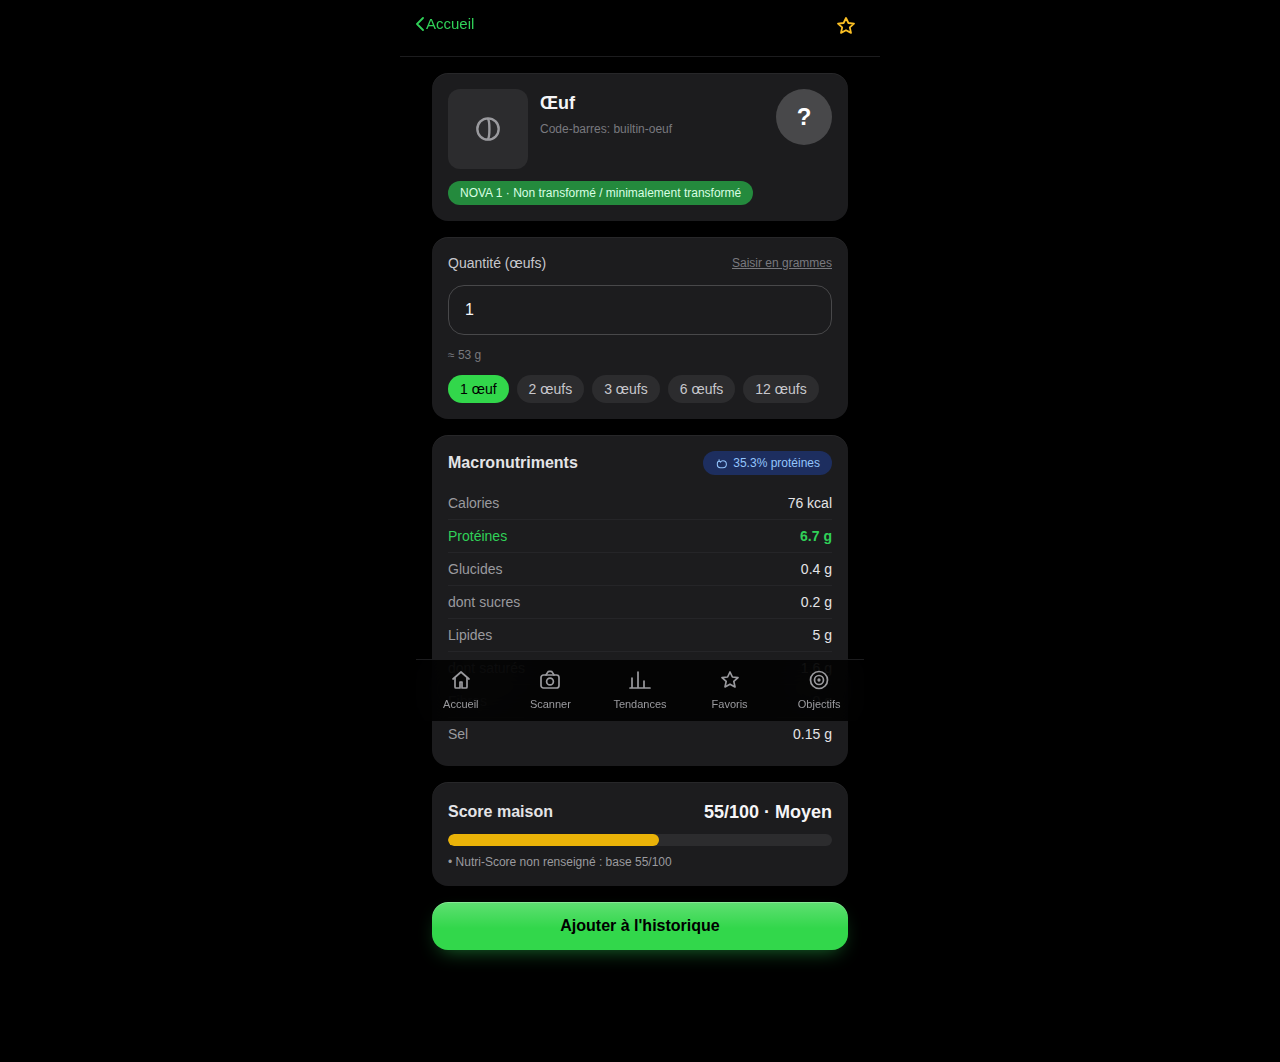
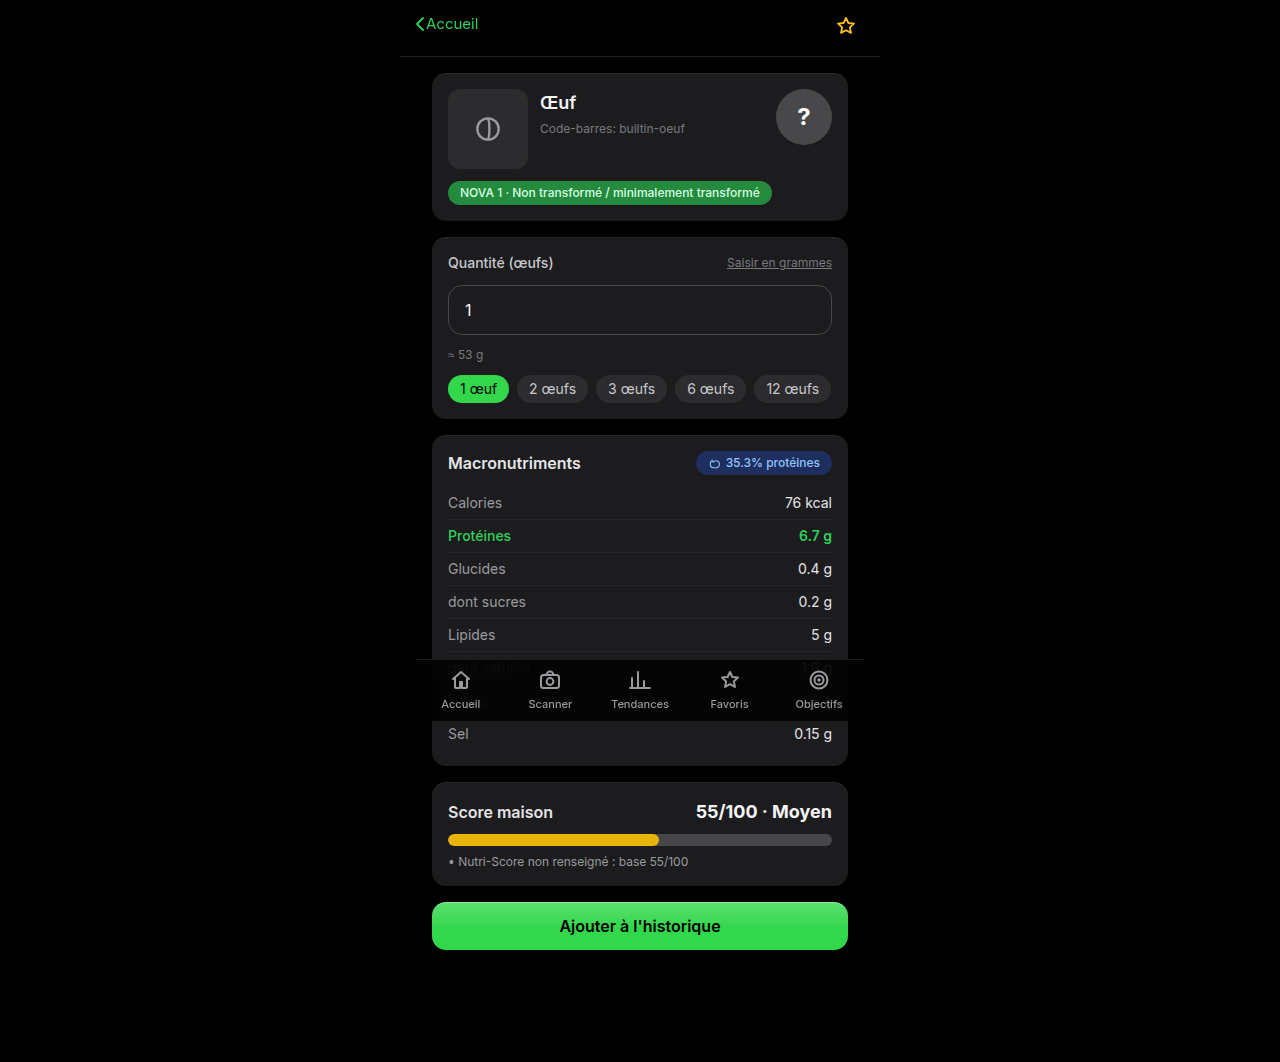
Apply the iOS design-system brief: type scale, corner radii, spring easing, haptics, pull-to-refresh (#30)
- Insert self-hosted Inter Variable as a fallback after -apple-system, so
  non-Apple platforms get an SF-Pro-adjacent font instead of a generic one
- Drop the neon-green glow on the primary button for a flat iOS-style
  shadow (radius 8-10, opacity 0.15); lighten the empty progress-bar track
  for visibility on black; bump section labels to Footnote weight/size and
  the large title to true iOS Large Title (34pt)
- Tighten card/list-group/quick-tile corner radii to the 14pt iOS range
- Normalize bottom-nav icon stroke width so active/inactive icons read at
  the same visual weight, differentiated by color only
- Replace linear/ease transitions on buttons, pills, tiles and icon
  buttons with a spring-style easing curve and a 0.96 press scale
- Add a Vibration-API haptics helper (Android-only, no-ops on iOS/desktop)
  wired into add-to-history and favorite-toggle actions
- Add native-feeling pull-to-refresh on the home page

diff --git a/src/app/globals.css b/src/app/globals.css
@@ -11,8 +11,15 @@
 body {
   color: var(--foreground);
   background: var(--background);
-  font-family: -apple-system, BlinkMacSystemFont, "SF Pro Text", "SF Pro Display", "Segoe UI", Roboto,
-    Helvetica, Arial, sans-serif;
+  font-family: -apple-system, BlinkMacSystemFont, "SF Pro Text", "SF Pro Display", "Inter Variable",
+    "Segoe UI", Roboto, Helvetica, Arial, sans-serif;
+}
+
+/* iOS spring-style easing for press states and transitions, in place of
+   linear/ease-out - a slight overshoot is what makes a tap feel alive
+   rather than merely animated. */
+:root {
+  --ease-spring: cubic-bezier(0.34, 1.56, 0.64, 1);
 }
 
 @layer components {
@@ -20,7 +27,7 @@ body {
      highlight along the top edge, the way light would actually catch a
      raised card - a flat tint alone read as pasted-on rather than raised. */
   .card {
-    @apply rounded-2xl bg-slate-800 p-4;
+    @apply rounded-[14px] bg-slate-800 p-4;
     box-shadow:
       inset 0 1px 0 rgba(255, 255, 255, 0.05),
       0 2px 6px -2px rgba(0, 0, 0, 0.55),
@@ -29,32 +36,33 @@ body {
 
   /* systemGreen is high-luminance (green channel dominates perceived
      brightness), so black text clears contrast by a wide margin where
-     white would not - same call iOS makes on tinted-green fills. A faint
-     top-lit gradient plus a matching cast shadow give it a pressable,
-     raised-button feel instead of a flat color swatch. */
+     white would not - same call iOS makes on tinted-green fills. iOS
+     buttons stay flat with just a subtle cast shadow, not a tinted glow. */
   .btn-primary {
-    @apply inline-flex items-center justify-center gap-2 rounded-2xl bg-green-600 px-4 py-3 font-semibold text-black transition active:scale-95 hover:bg-green-500 disabled:opacity-50 disabled:active:scale-100;
+    @apply inline-flex items-center justify-center gap-2 rounded-[14px] bg-green-600 px-4 py-3 font-semibold text-black transition-transform duration-200 active:scale-[0.96] hover:bg-green-500 disabled:opacity-50 disabled:active:scale-100;
+    transition-timing-function: var(--ease-spring);
     background-image: linear-gradient(180deg, rgba(255, 255, 255, 0.22), rgba(255, 255, 255, 0) 55%);
     box-shadow:
       inset 0 1px 0 rgba(255, 255, 255, 0.25),
-      0 8px 20px -8px rgba(48, 209, 88, 0.55);
+      0 8px 10px -2px rgba(0, 0, 0, 0.15);
   }
   .btn-primary:active {
     box-shadow:
       inset 0 1px 0 rgba(255, 255, 255, 0.2),
-      0 3px 10px -6px rgba(48, 209, 88, 0.5);
+      0 3px 6px -2px rgba(0, 0, 0, 0.15);
   }
 
   .btn-secondary {
-    @apply inline-flex items-center justify-center gap-2 rounded-2xl bg-slate-700 px-4 py-3 font-semibold text-slate-100 transition active:scale-95 hover:bg-slate-600 disabled:opacity-50;
+    @apply inline-flex items-center justify-center gap-2 rounded-[14px] bg-slate-700 px-4 py-3 font-semibold text-slate-100 transition-transform duration-200 active:scale-[0.96] hover:bg-slate-600 disabled:opacity-50;
+    transition-timing-function: var(--ease-spring);
   }
 
   .input-field {
-    @apply w-full rounded-2xl border border-slate-600 bg-slate-800 px-4 py-3 text-slate-100 placeholder-slate-500 outline-none focus:border-green-500;
+    @apply w-full rounded-[14px] border border-slate-600 bg-slate-800 px-4 py-3 text-slate-100 placeholder-slate-500 outline-none focus:border-green-500;
   }
 
   .progress-track {
-    @apply h-3 w-full overflow-hidden rounded-full bg-slate-700;
+    @apply h-3 w-full overflow-hidden rounded-full bg-slate-600;
   }
 
   .progress-fill {
@@ -82,18 +90,18 @@ body {
   }
 
   .large-title {
-    @apply text-[28px] font-bold tracking-tight text-slate-100;
+    @apply text-[34px] font-bold tracking-tight text-slate-100;
   }
 
   /* No top margin: pages control inter-section rhythm via space-y-* on the
      wrapping container, so this never has to guess whether it's first. */
   .section-label {
-    @apply mb-2 px-1 text-[12px] font-semibold uppercase tracking-wide text-slate-500;
+    @apply mb-2 px-1 text-[13px] font-bold uppercase tracking-wide text-slate-400;
   }
 
   /* Grouped iOS list: rows are direct children, separated by hairlines. */
   .list-group {
-    @apply divide-y divide-white/[0.06] overflow-hidden rounded-2xl bg-slate-800;
+    @apply divide-y divide-white/[0.06] overflow-hidden rounded-[14px] bg-slate-800;
     box-shadow:
       inset 0 1px 0 rgba(255, 255, 255, 0.05),
       0 2px 6px -2px rgba(0, 0, 0, 0.55),
@@ -133,7 +141,8 @@ body {
   }
 
   .pill {
-    @apply rounded-full px-3 py-1.5 text-sm font-medium transition active:scale-95;
+    @apply rounded-full px-3 py-1.5 text-sm font-medium transition-transform duration-200 active:scale-[0.96];
+    transition-timing-function: var(--ease-spring);
   }
 
   .pill-active {
@@ -157,11 +166,13 @@ body {
   }
 
   .icon-btn {
-    @apply inline-flex h-9 w-9 items-center justify-center rounded-full text-slate-400 transition active:scale-90 hover:text-slate-200;
+    @apply inline-flex h-9 w-9 items-center justify-center rounded-full text-slate-400 transition-transform duration-200 active:scale-90 hover:text-slate-200;
+    transition-timing-function: var(--ease-spring);
   }
 
   .quick-tile {
-    @apply flex flex-col items-center gap-2 rounded-2xl bg-slate-800 px-2 py-3.5 text-center transition active:scale-95;
+    @apply flex flex-col items-center gap-2 rounded-[14px] bg-slate-800 px-2 py-3.5 text-center transition-transform duration-200 active:scale-[0.96];
+    transition-timing-function: var(--ease-spring);
     box-shadow:
       inset 0 1px 0 rgba(255, 255, 255, 0.05),
       0 2px 6px -2px rgba(0, 0, 0, 0.55),

diff --git a/src/components/PullToRefresh.tsx b/src/components/PullToRefresh.tsx
@@ -1,0 +1,73 @@
+"use client";
+
+import { useRef, useState, type ReactNode, type TouchEvent } from "react";
+import { hapticTap } from "@/lib/haptics";
+
+const TRIGGER_DISTANCE = 64;
+const MAX_PULL = 100;
+
+interface PullToRefreshProps {
+  onRefresh: () => Promise<void>;
+  children: ReactNode;
+}
+
+/** Native-feeling pull-to-refresh: only arms when the page is scrolled to the top. */
+export default function PullToRefresh({ onRefresh, children }: PullToRefreshProps) {
+  const [pull, setPull] = useState(0);
+  const [refreshing, setRefreshing] = useState(false);
+  const startY = useRef<number | null>(null);
+  const armed = useRef(false);
+
+  function handleTouchStart(e: TouchEvent) {
+    if (refreshing) return;
+    armed.current = window.scrollY <= 0;
+    startY.current = armed.current ? e.touches[0].clientY : null;
+  }
+
+  function handleTouchMove(e: TouchEvent) {
+    if (!armed.current || startY.current === null) return;
+    const delta = e.touches[0].clientY - startY.current;
+    if (delta <= 0) {
+      setPull(0);
+      return;
+    }
+    setPull(Math.min(MAX_PULL, delta * 0.5));
+  }
+
+  async function handleTouchEnd() {
+    if (!armed.current) return;
+    armed.current = false;
+    startY.current = null;
+    if (pull >= TRIGGER_DISTANCE && !refreshing) {
+      hapticTap();
+      setRefreshing(true);
+      setPull(TRIGGER_DISTANCE);
+      try {
+        await onRefresh();
+      } finally {
+        setRefreshing(false);
+        setPull(0);
+      }
+    } else {
+      setPull(0);
+    }
+  }
+
+  return (
+    <div onTouchStart={handleTouchStart} onTouchMove={handleTouchMove} onTouchEnd={handleTouchEnd}>
+      <div
+        className="flex items-center justify-center overflow-hidden transition-[height] duration-200"
+        style={{ height: pull }}
+        aria-hidden
+      >
+        <div
+          className={`h-5 w-5 rounded-full border-2 border-slate-500 border-t-green-400 ${
+            refreshing ? "animate-spin" : ""
+          }`}
+          style={{ opacity: Math.min(1, pull / TRIGGER_DISTANCE), transform: `rotate(${pull * 3}deg)` }}
+        />
+      </div>
+      {children}
+    </div>
+  );
+}

diff --git a/src/app/page.tsx b/src/app/page.tsx
@@ -1,12 +1,13 @@
 "use client";
 
 import Link from "next/link";
-import { useEffect, useState } from "react";
+import { useCallback, useEffect, useState } from "react";
 import type { DailyGoals, HistoryEntry } from "@/lib/types/product";
 import { getDailyGoals, getFrequentProducts, getHistoryForDate } from "@/lib/storage/db";
 import { sumMacros } from "@/lib/macros/calculate";
 import CalorieRing from "@/components/CalorieRing";
 import PageHeader from "@/components/PageHeader";
+import PullToRefresh from "@/components/PullToRefresh";
 import {
   IconBook,
   IconCamera,
@@ -40,34 +41,27 @@ export default function HomePage() {
   const [frequent, setFrequent] = useState<HistoryEntry[]>([]);
   const [loading, setLoading] = useState(true);
 
-  useEffect(() => {
-    let cancelled = false;
-    async function load() {
-      try {
-        const [g, entries, freq] = await Promise.all([
-          getDailyGoals(),
-          getHistoryForDate(new Date()),
-          getFrequentProducts(6),
-        ]);
-        if (cancelled) return;
-        setGoals(g);
-        setTodayEntries(entries);
-        setFrequent(freq);
-      } finally {
-        if (!cancelled) setLoading(false);
-      }
-    }
-    load();
-    return () => {
-      cancelled = true;
-    };
+  const load = useCallback(async () => {
+    const [g, entries, freq] = await Promise.all([
+      getDailyGoals(),
+      getHistoryForDate(new Date()),
+      getFrequentProducts(6),
+    ]);
+    setGoals(g);
+    setTodayEntries(entries);
+    setFrequent(freq);
   }, []);
+
+  useEffect(() => {
+    load().finally(() => setLoading(false));
+  }, [load]);
 
   const totals = sumMacros(todayEntries.map((e) => e.macros));
 
   return (
     <main className="pb-6">
       <PageHeader title="Accueil" />
+      <PullToRefresh onRefresh={load}>
       <div className="space-y-5 px-4 pt-3">
         <Link href="/scan" className="btn-primary w-full text-[15px]">
           <IconCamera className="h-5 w-5" aria-hidden />
@@ -143,6 +137,7 @@ export default function HomePage() {
           </div>
         </section>
       </div>
+      </PullToRefresh>
     </main>
   );
 }

diff --git a/src/app/product/page.tsx b/src/app/product/page.tsx
@@ -22,6 +22,7 @@ import HomemadeScoreCard from "@/components/HomemadeScoreCard";
 import UltraProcessedAlert from "@/components/UltraProcessedAlert";
 import PageHeader from "@/components/PageHeader";
 import { IconCamera, IconStar, IconStarFilled } from "@/components/icons";
+import { hapticSuccess, hapticTap } from "@/lib/haptics";
 
 const ERROR_MESSAGES: Record<FetchProductError, string> = {
   not_found: "Produit introuvable dans Open Food Facts.",
@@ -101,6 +102,7 @@ function ProductPageContent() {
 
   const toggleFavorite = useCallback(async () => {
     if (!product) return;
+    hapticTap();
     if (favorite) {
       await removeFavorite(product.barcode);
       setFavorite(false);
@@ -133,6 +135,7 @@ function ProductPageContent() {
       novaGroup: product.novaGroup,
       timestamp: Date.now(),
     });
+    hapticSuccess();
     setSavedMessage("Ajouté à l'historique !");
     setTimeout(() => setSavedMessage(null), 2500);
   }, [product, quantity]);

diff --git a/src/components/BottomNav.tsx b/src/components/BottomNav.tsx
@@ -3,6 +3,7 @@
 import Link from "next/link";
 import { usePathname } from "next/navigation";
 import { IconChart, IconHome, IconCamera, IconStar, IconTarget } from "@/components/icons";
+import { hapticTap } from "@/lib/haptics";
 
 const ITEMS = [
   { href: "/", label: "Accueil", Icon: IconHome },
@@ -20,8 +21,8 @@ export default function BottomNav() {
       {ITEMS.map(({ href, label, Icon }) => {
         const active = pathname === href;
         return (
-          <Link key={href} href={href} className={`nav-link ${active ? "nav-link-active" : ""}`}>
-            <Icon className="h-6 w-6" strokeWidth={active ? 2 : 1.7} aria-hidden />
+          <Link key={href} href={href} onClick={hapticTap} className={`nav-link ${active ? "nav-link-active" : ""}`}>
+            <Icon className="h-6 w-6" strokeWidth={2} aria-hidden />
             <span>{label}</span>
           </Link>
         );

diff --git a/src/lib/haptics.ts b/src/lib/haptics.ts
@@ -1,0 +1,20 @@
+/**
+ * Thin wrapper over the Vibration API. There's no real Taptic Engine access
+ * on the web (iOS Safari doesn't expose `navigator.vibrate` at all), so this
+ * is a best-effort Android-only enhancement that silently no-ops elsewhere.
+ */
+
+function vibrate(pattern: number | number[]): void {
+  if (typeof navigator === "undefined" || typeof navigator.vibrate !== "function") return;
+  navigator.vibrate(pattern);
+}
+
+/** Light tap feedback for a button press. */
+export function hapticTap(): void {
+  vibrate(10);
+}
+
+/** Success feedback, e.g. after adding a food to history. */
+export function hapticSuccess(): void {
+  vibrate([15, 40, 15]);
+}

diff --git a/src/app/describe/page.tsx b/src/app/describe/page.tsx
@@ -15,6 +15,7 @@ import {
 } from "@/lib/storage/aiSettings";
 import { generateManualProductId } from "@/lib/storage/generateId";
 import { addHistoryEntry } from "@/lib/storage/db";
+import { hapticSuccess } from "@/lib/haptics";
 import MacroBreakdownCard from "@/components/MacroBreakdownCard";
 import PhotoCapture from "@/components/PhotoCapture";
 import PageHeader from "@/components/PageHeader";
@@ -155,6 +156,7 @@ export default function DescribePage() {
       novaGroup: null,
       timestamp: Date.now(),
     });
+    hapticSuccess();
     setSavedMessage("Ajouté à l'historique !");
     setTimeout(() => {
       setSavedMessage(null);

diff --git a/src/app/recipes/page.tsx b/src/app/recipes/page.tsx
@@ -4,6 +4,7 @@ import { useEffect, useMemo, useState } from "react";
 import Link from "next/link";
 import type { Recipe } from "@/lib/types/product";
 import { addHistoryEntry, deleteRecipe, getAllRecipes } from "@/lib/storage/db";
+import { hapticSuccess } from "@/lib/haptics";
 import {
   computeRecipeMacrosForServings,
   computeRecipePerServingMacros,
@@ -39,6 +40,7 @@ function RecipeCard({ recipe, onDelete }: { recipe: Recipe; onDelete: (id: strin
       novaGroup: null,
       timestamp: Date.now(),
     });
+    hapticSuccess();
     setSavedMessage("Ajouté à l'historique !");
     setTimeout(() => setSavedMessage(null), 2500);
   };

diff --git a/src/app/layout.tsx b/src/app/layout.tsx
@@ -1,4 +1,9 @@
 import type { Metadata, Viewport } from "next";
+// Self-hosted variable font, used as the fallback for platforms where
+// -apple-system doesn't resolve to real SF Pro (Android, desktop). Real
+// iPhones/Macs already render actual SF Pro via -apple-system below, so
+// this only kicks in where that's unavailable.
+import "@fontsource-variable/inter/wght.css";
 import "./globals.css";
 import BottomNav from "@/components/BottomNav";
 import ServiceWorkerRegister from "@/components/ServiceWorkerRegister";
